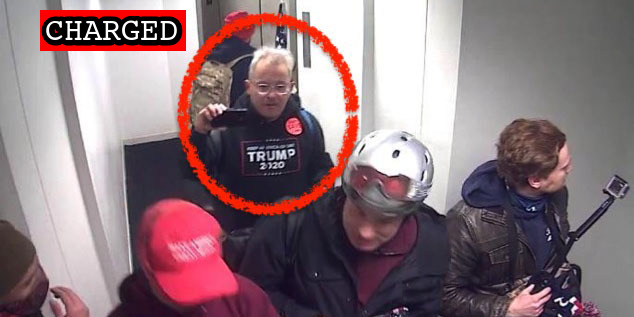
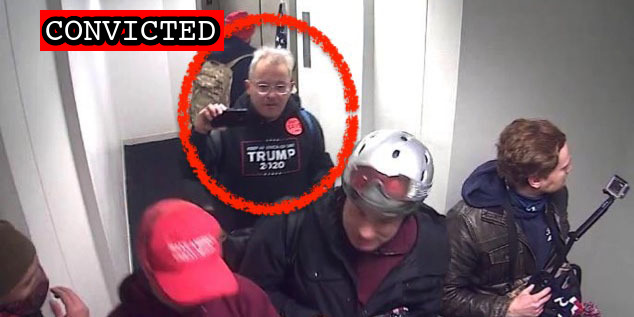
Latest schedule plus misc. sentencing etc.

Changed region(s): [[0.0899, 0.0284, 0.3596, 0.1703]]

diff --git a/docs/_suspects/michael-roche.md b/docs/_suspects/michael-roche.md
@@ -41,33 +41,32 @@ caseName: USA v. ROCHE
 judge: Beryl A. Howell
 videos:
 charges:
-  - code: 18 USC § 1512(c)(2),2
-    title: Obstruction of an Official Proceeding (Aiding and Abetting)
-    url: https://www.law.cornell.edu/uscode/text/18/1512
-    felony: true
-  - code: 18 USC § 1752(a)(1)
-    title: Entering a restricted building or grounds
-    url: https://www.law.cornell.edu/uscode/text/18/1752
-    felony: false
-  - code: 18 USC § 1752(a)(2)
-    title: Disorderly and disruptive conduct in a restricted building or grounds
-    url: https://www.law.cornell.edu/uscode/text/18/1752
-    felony: false
-  - code: 40 USC § 5104(e)(2)(A)
-    title: Entering and Remaining on the Floor of Congress
-    url: https://www.law.cornell.edu/uscode/text/40/5104
-    felony: false
-  - code: 40 USC § 5104(e)(2)(D)
-    title: Disorderly Conduct in a Capitol Building
-    url: https://www.law.cornell.edu/uscode/text/40/5104
-    felony: false
-  - code: 40 USC § 5104(e)(2)(G)
-    title: Parading, demonstrating or picketing in a Capitol building
-    url: https://www.law.cornell.edu/uscode/text/40/5104
-    felony: false
+- code: 18 USC § 1512(c)(2),2
+  title: Obstruction of an Official Proceeding (Aiding and Abetting)
+  url: https://www.law.cornell.edu/uscode/text/18/1512
+  felony: true
+- code: 18 USC § 1752(a)(1)
+  title: Entering a restricted building or grounds
+  url: https://www.law.cornell.edu/uscode/text/18/1752
+  felony: false
+- code: 18 USC § 1752(a)(2)
+  title: Disorderly and disruptive conduct in a restricted building or grounds
+  url: https://www.law.cornell.edu/uscode/text/18/1752
+  felony: false
+- code: 40 USC § 5104(e)(2)(A)
+  title: Entering and Remaining on the Floor of Congress
+  url: https://www.law.cornell.edu/uscode/text/40/5104
+  felony: false
+- code: 40 USC § 5104(e)(2)(D)
+  title: Disorderly Conduct in a Capitol Building
+  url: https://www.law.cornell.edu/uscode/text/40/5104
+  felony: false
+- code: 40 USC § 5104(e)(2)(G)
+  title: Parading, demonstrating or picketing in a Capitol building
+  url: https://www.law.cornell.edu/uscode/text/40/5104
+  felony: false
 sentence:
 ---
-
 - [News Report](https://www.tennessean.com/story/news/crime/2021/04/13/murfreesboro-man-michael-roche-arrested-u-s-capitol-riot-case/7205782002/)
 - [Complaint](https://www.justice.gov/usao-dc/case-multi-defendant/file/1386731/download)
 - [Statement of Facts](https://www.justice.gov/usao-dc/case-multi-defendant/file/1386736/download)

diff --git a/docs/_suspects/yvonne-st-cyr.md b/docs/_suspects/yvonne-st-cyr.md
@@ -4,16 +4,16 @@ lastName: St Cyr
 hashtag: WindowWatcher
 aka:
 residence: Idaho
-status: Charged
+status: Convicted
 date: 2021-03-03
 charged: 2021-03-03
-indicted:
-convicted:
+indicted: 2022-05-25
+convicted: 2023-03-13
 acquitted:
 sentenced:
 dismissed:
 deceased:
-plea_hearing:
+plea_hearing: 2023-03-13
 trial_date:
 trial_type:
 jury_selection:
@@ -32,7 +32,7 @@ raid:
 perpwalk:
 quote: "So hey, maybe I’m going to get arrested again, but I would get arrested and I would die for this country. So no regrets."
 title: Yvonne St Cyr arrested on March 3, 2021
-description: Click for latest case details. Suspects innocent until proven guilty.
+description: Convicted on March 13, 2023. Click for latest case details.
 author: seditiontrack
 layout: suspect
 published: true
@@ -41,8 +41,34 @@ caseName: USA v. ST-CYR
 judge: John D. Bates
 videos:
 charges:
+  - code: 18 USC § 231(a)(3),2
+    title: Obstruction of Law Enforcement During Civil Disorder (Aiding and Abetting)
+    url: https://www.law.cornell.edu/uscode/text/18/231
+    felony: true
+  - code: 18 USC § 231(a)(3),2
+    title: Obstruction of Law Enforcement During Civil Disorder (Aiding and Abetting)
+    url: https://www.law.cornell.edu/uscode/text/18/231
+    felony: true
+  - code: 18 USC § 1752(a)(1)
+    title: Entering a restricted building or grounds
+    url: https://www.law.cornell.edu/uscode/text/18/1752
+    felony: false
+  - code: 18 USC § 1752(a)(2)
+    title: Disorderly and disruptive conduct in a restricted building or grounds
+    url: https://www.law.cornell.edu/uscode/text/18/1752
+    felony: false
+  - code: 40 USC § 5104(e)(2)(D)
+    title: Disorderly Conduct in a Capitol Building
+    url: https://www.law.cornell.edu/uscode/text/40/5104
+    felony: false
+  - code: 40 USC § 5104(e)(2)(G)
+    title: Parading, demonstrating or picketing in a Capitol building
+    url: https://www.law.cornell.edu/uscode/text/40/5104
+    felony: false
 sentence:
 ---
+
 - [News Report](https://www.msn.com/en-us/news/crime/boise-woman-arrested-accused-of-crimes-related-to-us-capitol-riot/ar-BB1ef7i4)
 - [Statement of Facts](https://www.justice.gov/usao-dc/case-multi-defendant/file/1379351/download)
 - [Complaint](https://www.justice.gov/usao-dc/case-multi-defendant/file/1379356/download)
+- [Indictment](https://storage.courtlistener.com/recap/gov.uscourts.dcd.243749/gov.uscourts.dcd.243749.37.0_3.pdf)

diff --git a/docs/_suspects/edward-rodriguez.md b/docs/_suspects/edward-rodriguez.md
@@ -4,11 +4,11 @@ lastName: Rodriguez
 hashtag: SuitMacer
 aka:
 residence: New York
-status: Indicted
+status: Convicted
 date: 2021-07-09
 charged: 2021-07-09
 indicted: 2021-07-21
-convicted:
+convicted: 2023-03-13
 acquitted:
 sentenced:
 dismissed:
@@ -17,7 +17,7 @@ plea_hearing: 2023-03-13
 trial_date:
 trial_type:
 jury_selection:
-sentencing:
+sentencing: 2023-07-18
 status_conference:
 age: 26
 occupation:
@@ -32,7 +32,7 @@ raid:
 perpwalk:
 quote: "We made it all the way through."
 title: Edward Rodriguez charged on July 9, 2021
-description: Click for latest case details. Suspects innocent until proven guilty.
+description: Convicted on March 13, 2023. Click for latest case details.
 author: seditiontrack
 layout: suspect
 published: true
@@ -41,8 +41,13 @@ caseName: USA v. RODRIGUEZ
 judge: Dabney L. Friedrich
 videos:
 charges:
+  - code: 18 USC § 111(a)(1) and (b)
+    title: Assaulting, resisting, or impeding certain officers or employees (using a deadly or dangerous weapon)
+    url: https://www.law.cornell.edu/uscode/text/18/111
+    felony: true
 sentence:
 ---
+
 - [News Report](https://www.msn.com/en-us/news/crime/here-in-america-we-fight-back-formally-dressed-man-dubbed-suitmacer-charged-with-spraying-police-during-capitol-siege/ar-AALZYmU)
 - [Statement of Facts](https://www.justice.gov/usao-dc/case-multi-defendant/file/1410871/download)
 - [Edgar macing police officers (Video)](https://twitter.com/1600PennPooch/status/1413630211774730242)

diff --git a/docs/_suspects/paul-kovacik.md b/docs/_suspects/paul-kovacik.md
@@ -4,11 +4,11 @@ lastName: Kovacik
 hashtag:
 aka:
 residence: Indiana
-status: Charged
+status: Convicted
 date: 2022-05-10
 charged: 2022-05-10
 indicted:
-convicted:
+convicted: 2023-03-13
 acquitted:
 sentenced:
 dismissed:
@@ -17,7 +17,7 @@ plea_hearing: 2023-03-13
 trial_date:
 trial_type:
 jury_selection:
-sentencing:
+sentencing: 2023-06-21
 status_conference:
 age:
 occupation:
@@ -32,7 +32,7 @@ raid:
 perpwalk:
 quote:
 title: Paul Kovacik charged on May 10th, 2022
-description: Click for latest case details. Suspects innocent until proven guilty.
+description: Convicted on March 13, 2023. Click for latest case details.
 author: seditiontrack
 layout: suspect
 published: true
@@ -41,8 +41,14 @@ caseName: USA v. KOVACIK
 judge: Reggie B. Walton
 videos:
 charges:
+  - code: 40 USC § 5104(e)(2)(G)
+    title: Parading, demonstrating or picketing in a Capitol building
+    url: https://www.law.cornell.edu/uscode/text/40/5104
+    felony: false
 sentence:
 ---
+
 - [News Report](https://fox59.com/indiana-news/southern-indiana-man-arrested-jan-6-capitol-breach/)
 - [Complaint](https://www.justice.gov/usao-dc/case-multi-defendant/file/1516076/download)
 - [Statement of Facts](https://www.justice.gov/usao-dc/case-multi-defendant/file/1516081/download)
+- [Information](https://storage.courtlistener.com/recap/gov.uscourts.dcd.245274/gov.uscourts.dcd.245274.10.0.pdf)

diff --git a/docs/_suspects/cale-clayton.md b/docs/_suspects/cale-clayton.md
@@ -41,17 +41,16 @@ caseName: USA v. CLAYTON
 judge: Royce C. Lamberth
 videos:
 charges:
-  - code: 18 USC § 111(a)(1)
-    title: Assaulting, resisting, or impeding certain officers or employees
-    url: https://www.law.cornell.edu/uscode/text/18/111
-    felony: true
-  - code: 18 USC § 111(a)(1)
-    title: Assaulting, resisting, or impeding certain officers or employees
-    url: https://www.law.cornell.edu/uscode/text/18/111
-    felony: true
+- code: 18 USC § 111(a)(1)
+  title: Assaulting, resisting, or impeding certain officers or employees
+  url: https://www.law.cornell.edu/uscode/text/18/111
+  felony: true
+- code: 18 USC § 111(a)(1)
+  title: Assaulting, resisting, or impeding certain officers or employees
+  url: https://www.law.cornell.edu/uscode/text/18/111
+  felony: true
 sentence:
 ---
-
 - [News Report](https://www.kctv5.com/2022/03/31/drexel-mo-man-charged-assaulting-law-enforcement-officers-during-capitol-riot/)
 - [Complaint](https://www.justice.gov/usao-dc/case-multi-defendant/file/1489216/download)
 - [Statement of Facts](https://www.justice.gov/usao-dc/case-multi-defendant/file/1489221/download)

diff --git a/docs/_suspects/richard-cook.md b/docs/_suspects/richard-cook.md
@@ -1,7 +1,7 @@
 ---
 name: Richard Cook
 lastName: Cook
-hashtag: 
+hashtag: CrispWhiteRiot
 aka:
 residence: Florida
 status: Charged
@@ -36,13 +36,14 @@ description: Click for latest case details. Suspects innocent until proven guilt
 author: seditiontrack
 layout: suspect
 published: true
-caseNumber: 
+caseNumber:
 caseName: USA v. COOK
 judge:
 videos:
 charges:
 sentence:
 ---
+
 - [News Report](https://bocanewsnow.com/2023/03/09/boca-raton-man-arrested-for-january-6th-capitol-breach/)
 - [Statement of Facts](https://storage.courtlistener.com/recap/gov.uscourts.dcd.252880/gov.uscourts.dcd.252880.1.1.pdf)
 - [DOJ Press Release](https://www.justice.gov/usao-dc/pr/florida-man-arrested-actions-lower-west-terrace-during-jan-6-capitol-breach)

diff --git a/docs/_suspects/michael-gianos.md b/docs/_suspects/michael-gianos.md
@@ -13,7 +13,7 @@ acquitted:
 sentenced:
 dismissed:
 deceased:
-plea_hearing:
+plea_hearing: 2023-04-28
 trial_date:
 trial_type:
 jury_selection:
@@ -43,7 +43,6 @@ videos:
 charges:
 sentence:
 ---
-
 - [News Report](https://www.msn.com/en-us/news/crime/feds-claim-pa-woman-stormed-the-capitol-on-jan-6-welcomed-fight-with-counterprotesters/ar-AARp9Sv)
 - [Complaint](https://www.justice.gov/usao-dc/case-multi-defendant/file/1459071/download)
 - [Statement of Facts](https://www.justice.gov/usao-dc/case-multi-defendant/file/1459076/download)

diff --git a/docs/_suspects/gabriel-garcia.md b/docs/_suspects/gabriel-garcia.md
@@ -18,7 +18,7 @@ trial_date: 2023-08-21
 trial_type: Jury Trial
 jury_selection: 2023-03-13
 sentencing:
-status_conference:
+status_conference: 2023-03-20
 age: 40
 occupation: U.S. Army (Former)
 affiliations: Proud Boys

diff --git a/docs/_suspects/thomas-ballard.md b/docs/_suspects/thomas-ballard.md
@@ -18,7 +18,7 @@ trial_date:
 trial_type:
 jury_selection:
 sentencing:
-status_conference: 2023-03-07
+status_conference: 2023-04-13
 age: 35
 occupation: Owner, Cliff’s Mobile Motorcycle Tires
 affiliations:

diff --git a/docs/_suspects/lawrence-ligas.md b/docs/_suspects/lawrence-ligas.md
@@ -18,7 +18,7 @@ trial_date: 2023-04-03
 trial_type: Bench Trial
 jury_selection:
 sentencing:
-status_conference:
+status_conference: 2023-05-02
 age: 62
 occupation:
 affiliations:

diff --git a/docs/_suspects/jolene-eicher.md b/docs/_suspects/jolene-eicher.md
@@ -18,7 +18,7 @@ trial_date: 2023-06-05
 trial_type: Jury Trial
 jury_selection:
 sentencing:
-status_conference:
+status_conference: 2023-05-22
 age:
 occupation:
 affiliations:

diff --git a/docs/_suspects/narayana-rheiner.md b/docs/_suspects/narayana-rheiner.md
@@ -17,7 +17,7 @@ plea_hearing: 2022-11-04
 trial_date:
 trial_type:
 jury_selection:
-sentencing: 2023-04-03
+sentencing: 2023-05-03
 status_conference:
 age: 40
 occupation:
